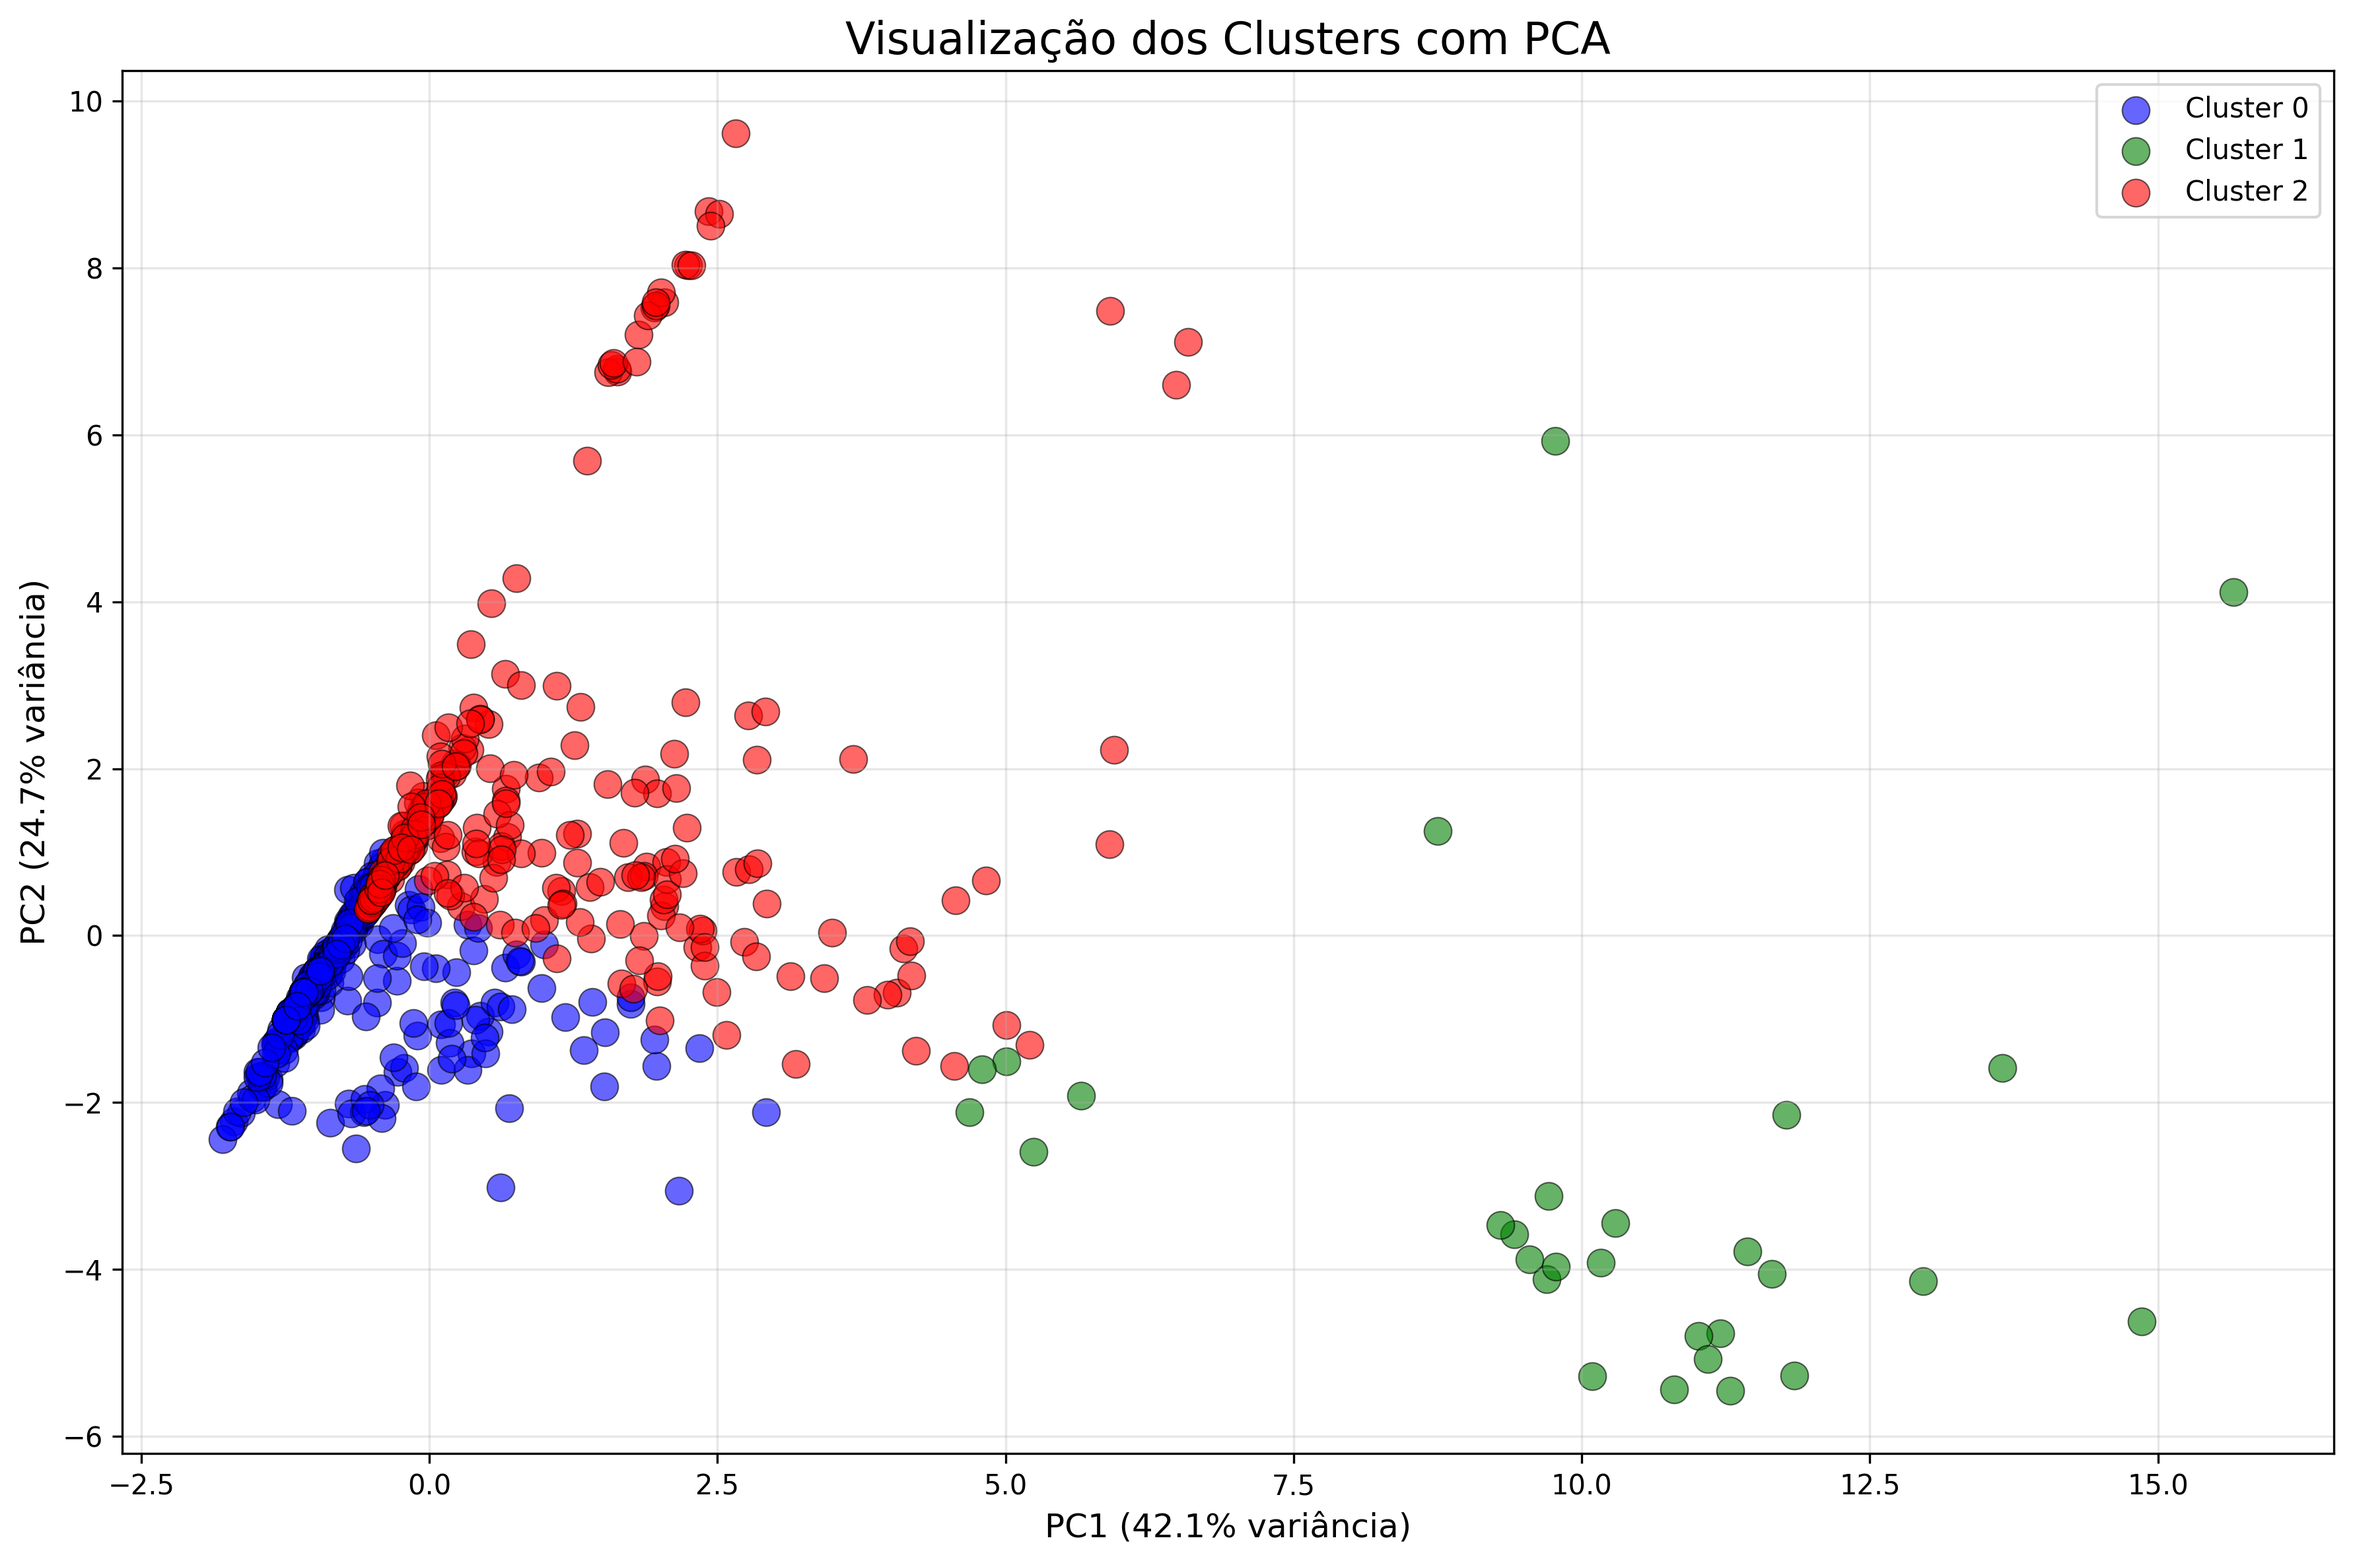
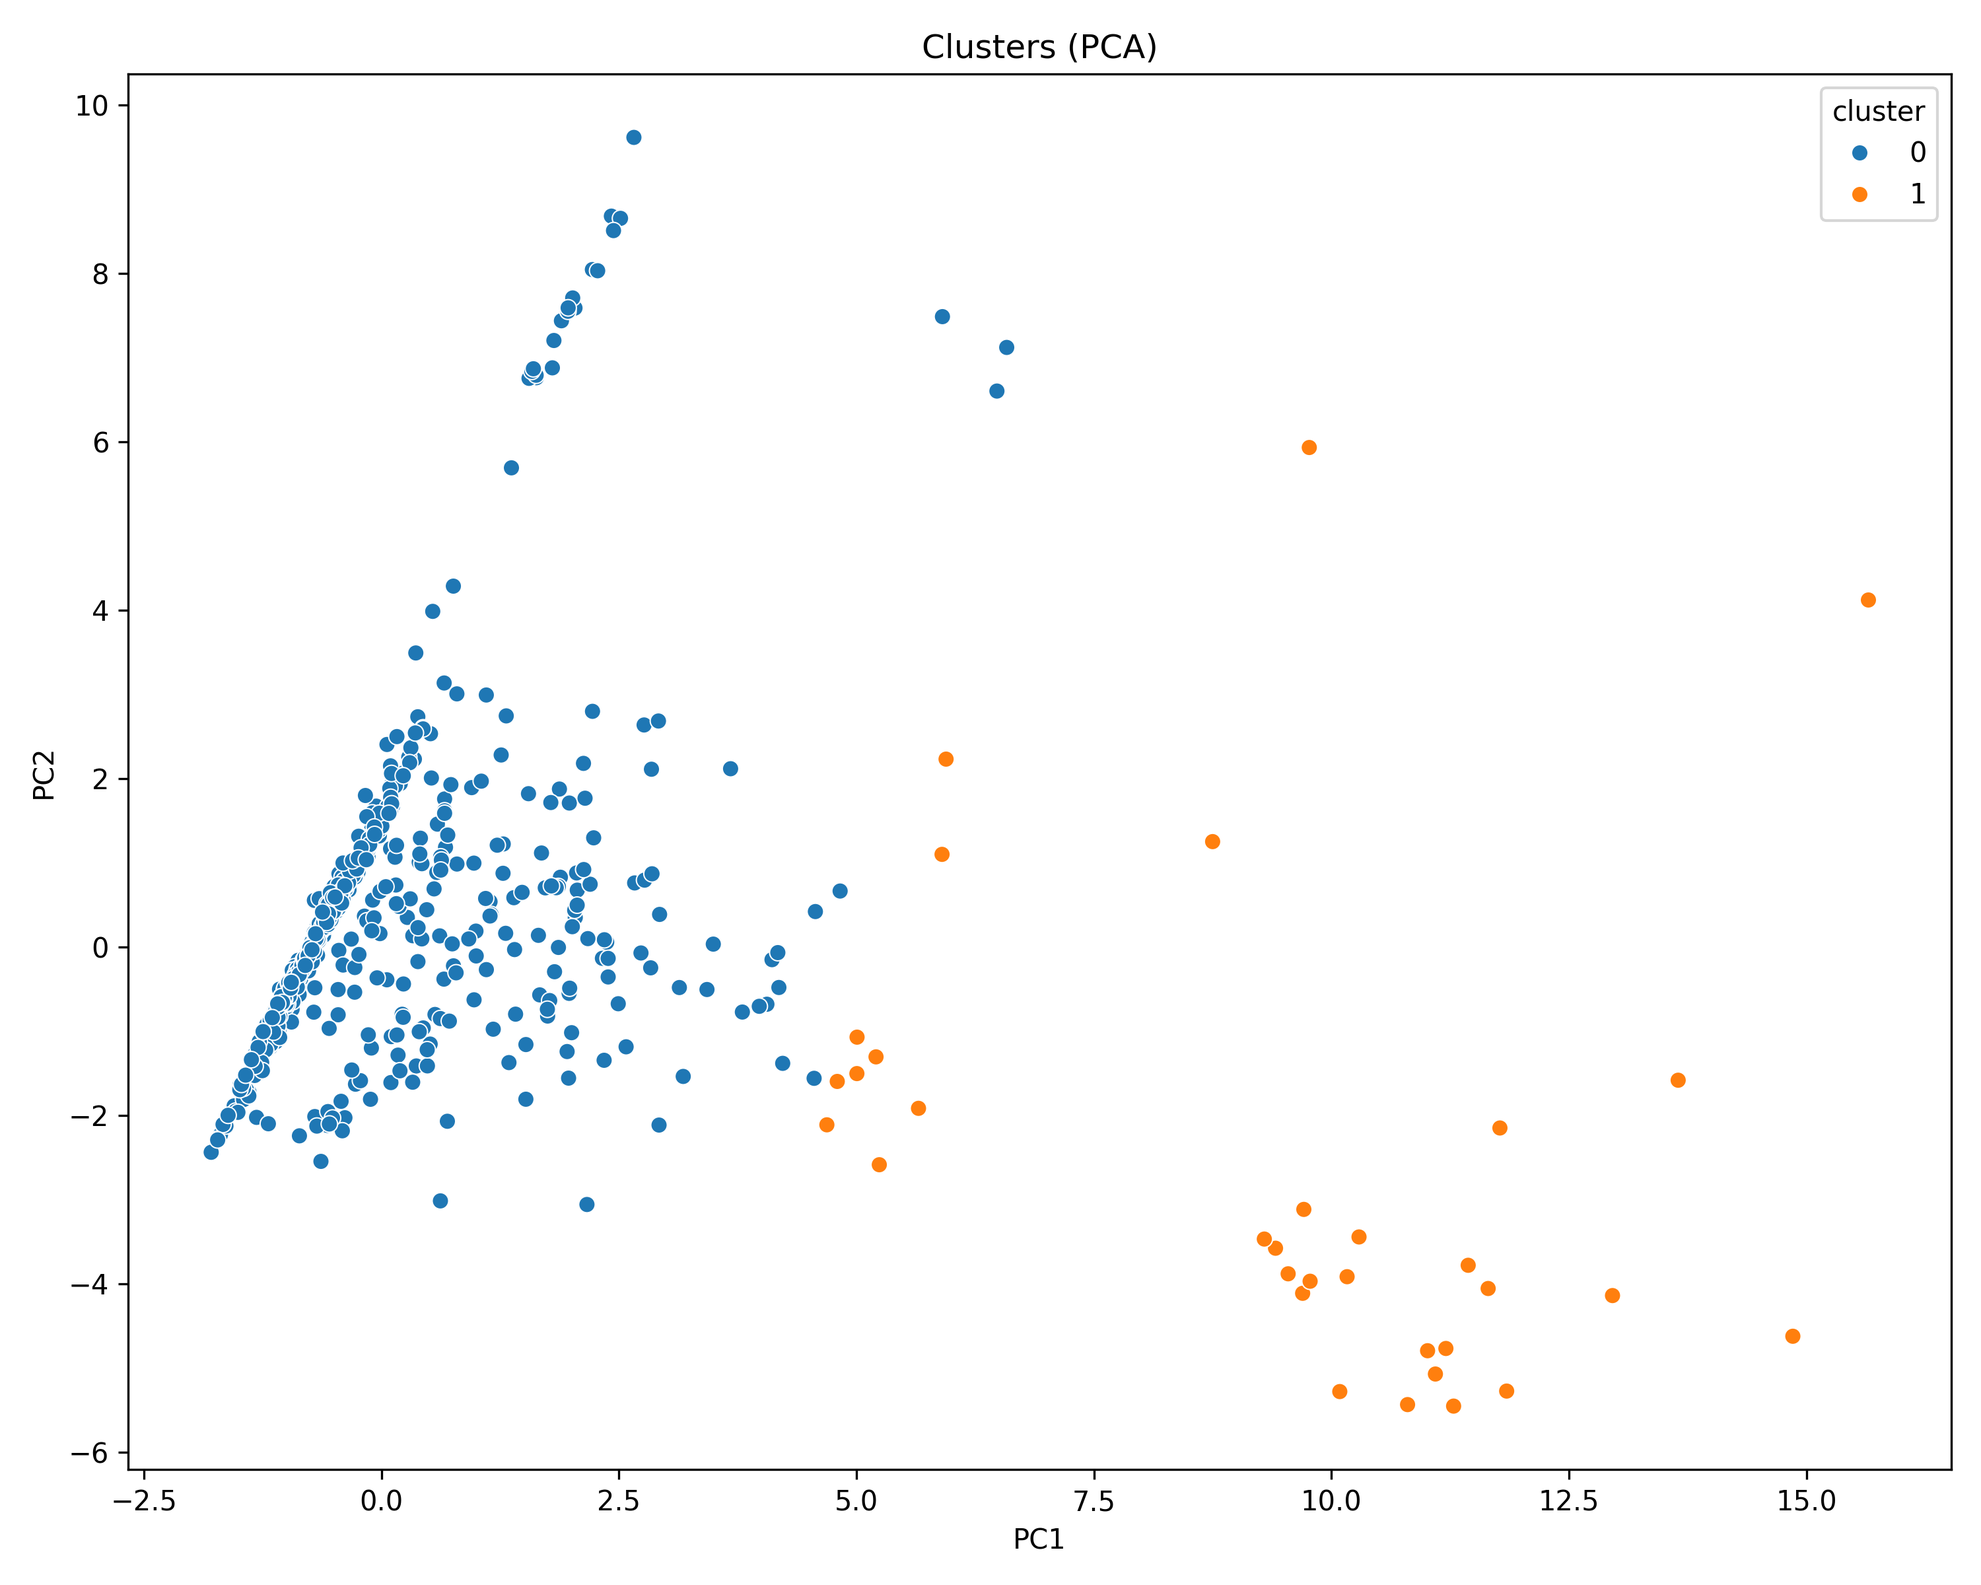
cenas

diff --git a/insider_threats.py b/insider_threats.py
@@ -4,6 +4,7 @@ import numpy as np
 from sklearn.cluster import KMeans
 from sklearn.preprocessing import StandardScaler
 import seaborn as sns
+from sklearn.model_selection import train_test_split
 
 
 logon_df = pd.read_csv('logon.csv')       
@@ -72,7 +73,7 @@ if 'size' not in file_df.columns:
 file_df['size'] = file_df['size'].fillna(0)
 file_features = file_df.groupby('user').agg(
     num_files_downloaded=('id', 'count'),
-    total_file_size=('size', 'sum')
+        total_file_size=('size', 'sum')
 )
 file_features['files_per_logon'] = file_features['num_files_downloaded'] / (pc_features.get('pc_logon', pd.Series(1)) + 1)
 
@@ -134,15 +135,30 @@ for k in K_range:
     
     print(f"Inércia: {kmeans.inertia_:.0f}, Silhueta: {sil_score:.3f}")
 
-#FALTA ESCOLHER O NUMERO DE CLUSTERS!!!
+plt.figure(figsize=(10,5))
+plt.plot(K_range, inertias, marker='o')
+plt.title("Elbow Method")
+plt.xlabel("Número de clusters")
+plt.ylabel("Inércia")
+plt.grid(True)
+plt.show()
+
+plt.figure(figsize=(10,5))
+plt.plot(K_range, silhouette_scores, marker='o')
+plt.title("Silhouette Score vs K")
+plt.xlabel("Número de clusters")
+plt.ylabel("Silhouette score")
+plt.grid(True)
+plt.show()
+
+best_k = K_range[np.argmax(silhouette_scores)]
+print("Melhor k (silhouette):", best_k)
 
 
-kmeans = KMeans(n_clusters=3, random_state=42)
+kmeans = KMeans(n_clusters=best_k, random_state=42)
 clusters = kmeans.fit_predict(X_scaled)
 
 features['cluster'] = clusters
-
-print(features['cluster'].value_counts())
 
 cluster_summary = numeric_cols.groupby(clusters).mean().round(2)
 cluster_summary['contagem'] = features.groupby('cluster').size()
@@ -151,7 +167,6 @@ print(cluster_summary)
 features.to_csv("insider_threat_clusters.csv")
 
 #CLUSTERS COM PCA
-
 from sklearn.decomposition import PCA
 
 pca = PCA(n_components=2)
@@ -160,38 +175,13 @@ X_pca = pca.fit_transform(X_scaled)
 pca_df = pd.DataFrame({
     'PC1': X_pca[:, 0],
     'PC2': X_pca[:, 1],
-    'cluster': clusters,
+    'cluster': features['cluster'],
     'user': features.index
 })
 
-var_ratio = pca.explained_variance_ratio_
-print(f"\n  Variância explicada:")
-print(f"      PC1: {var_ratio[0]:.1%}")
-print(f"      PC2: {var_ratio[1]:.1%}")
-print(f"      Total: {var_ratio[0]+var_ratio[1]:.1%} da variância explicada")
-
-plt.figure(figsize=(12, 8))
-
-cores = ['blue', 'green', 'red']
-nomes_clusters = ['Cluster 0', 'Cluster 1', 'Cluster 2']
-
-for cluster in range(3):
-    mask = pca_df['cluster'] == cluster
-    plt.scatter(pca_df.loc[mask, 'PC1'], 
-                pca_df.loc[mask, 'PC2'],
-                c=cores[cluster], 
-                label=nomes_clusters[cluster],
-                alpha=0.6, 
-                edgecolors='black', 
-                linewidth=0.5,
-                s=100)
-
-plt.xlabel(f'PC1 ({var_ratio[0]:.1%} variância)', fontsize=12)
-plt.ylabel(f'PC2 ({var_ratio[1]:.1%} variância)', fontsize=12)
-plt.title('Visualização dos Clusters com PCA', fontsize=16)
-plt.legend()
-plt.grid(True, alpha=0.3)
+plt.figure(figsize=(10,8))
+sns.scatterplot(data=pca_df, x='PC1', y='PC2', hue='cluster', palette='tab10')
+plt.title('Clusters (PCA)')
 plt.tight_layout()
-plt.savefig('pca_clusters.png', dpi=300, bbox_inches='tight')
+plt.savefig('pca_clusters.png', dpi=300)
 plt.show()
-

diff --git a/parte_supervisonada.py b/parte_supervisonada.py
@@ -1,17 +1,28 @@
 import pandas as pd
 import numpy as np
+from sklearn.preprocessing import StandardScaler
+import seaborn as sns
+import matplotlib.pyplot as plt
 
-features=pd.read_csv('insider_threat_final.csv')
+features=pd.read_csv('insider_threat_clusters.csv')
 
 #TRAIN TEST SPLIT
 from sklearn.model_selection import train_test_split
-
-X = features.drop(columns=['cluster']).select_dtypes(include=['number'])
+X = features.drop(columns=['cluster'])
+X=X.select_dtypes(include=[np.number])
 y = features['cluster']
 
 X_train, X_test, y_train, y_test = train_test_split(
-    X, y, test_size=0.3, random_state=42, stratify=y
+    X, y,
+    test_size=0.2,
+    stratify=y,
+    random_state=42
 )
+
+# scaler supervisionado (NOVO)
+scaler_sup = StandardScaler()
+X_train_scaled = scaler_sup.fit_transform(X_train)
+X_test_scaled = scaler_sup.transform(X_test)
 
 from sklearn.ensemble import RandomForestClassifier
 from sklearn.linear_model import LogisticRegression
@@ -22,6 +33,7 @@ from sklearn.tree import DecisionTreeClassifier
 
 #RANDOM FOREST
 clf = RandomForestClassifier(random_state=42)
+y_shuffled = y.sample(frac=1, random_state=42).reset_index(drop=True)
 clf.fit(X_train, y_train)
 
 from sklearn.metrics import classification_report, confusion_matrix
@@ -58,3 +70,45 @@ y_pred_dt = dt_clf.predict(X_test)
 
 print(classification_report(y_test, y_pred_dt))
 print(confusion_matrix(y_test, y_pred_dt))
+
+
+from sklearn.model_selection import cross_val_score
+from sklearn.ensemble import RandomForestClassifier
+
+rf_cv = RandomForestClassifier(random_state=42)
+
+scores = cross_val_score(
+    rf_cv,
+    X_train,
+    y_train,
+    cv=5,
+    scoring='f1_macro'
+)
+
+print("CV F1 Macro:", scores)
+print("Mean:", scores.mean())
+
+feat_imp = pd.Series(clf.feature_importances_, index=X.columns)
+feat_imp.sort_values(ascending=False).head(10)
+print(feat_imp)
+
+
+# Calcular a matriz de correlação
+corr_matrix = X.join(y).corr()
+
+# Plotar heatmap
+plt.figure(figsize=(12,10))
+sns.heatmap(
+    corr_matrix,
+    cmap='coolwarm',
+    annot=True,
+    fmt=".2f",
+    center=0,            # destaca correlações negativas vs positivas
+    linewidths=0.5,      # linhas entre células
+    cbar_kws={'shrink':0.8}  # barra de cores menor
+)
+plt.title("Matriz de Correlação das Features e Cluster", fontsize=16)
+plt.xticks(rotation=45, ha='right')
+plt.yticks(rotation=0)
+plt.tight_layout()
+plt.show()
